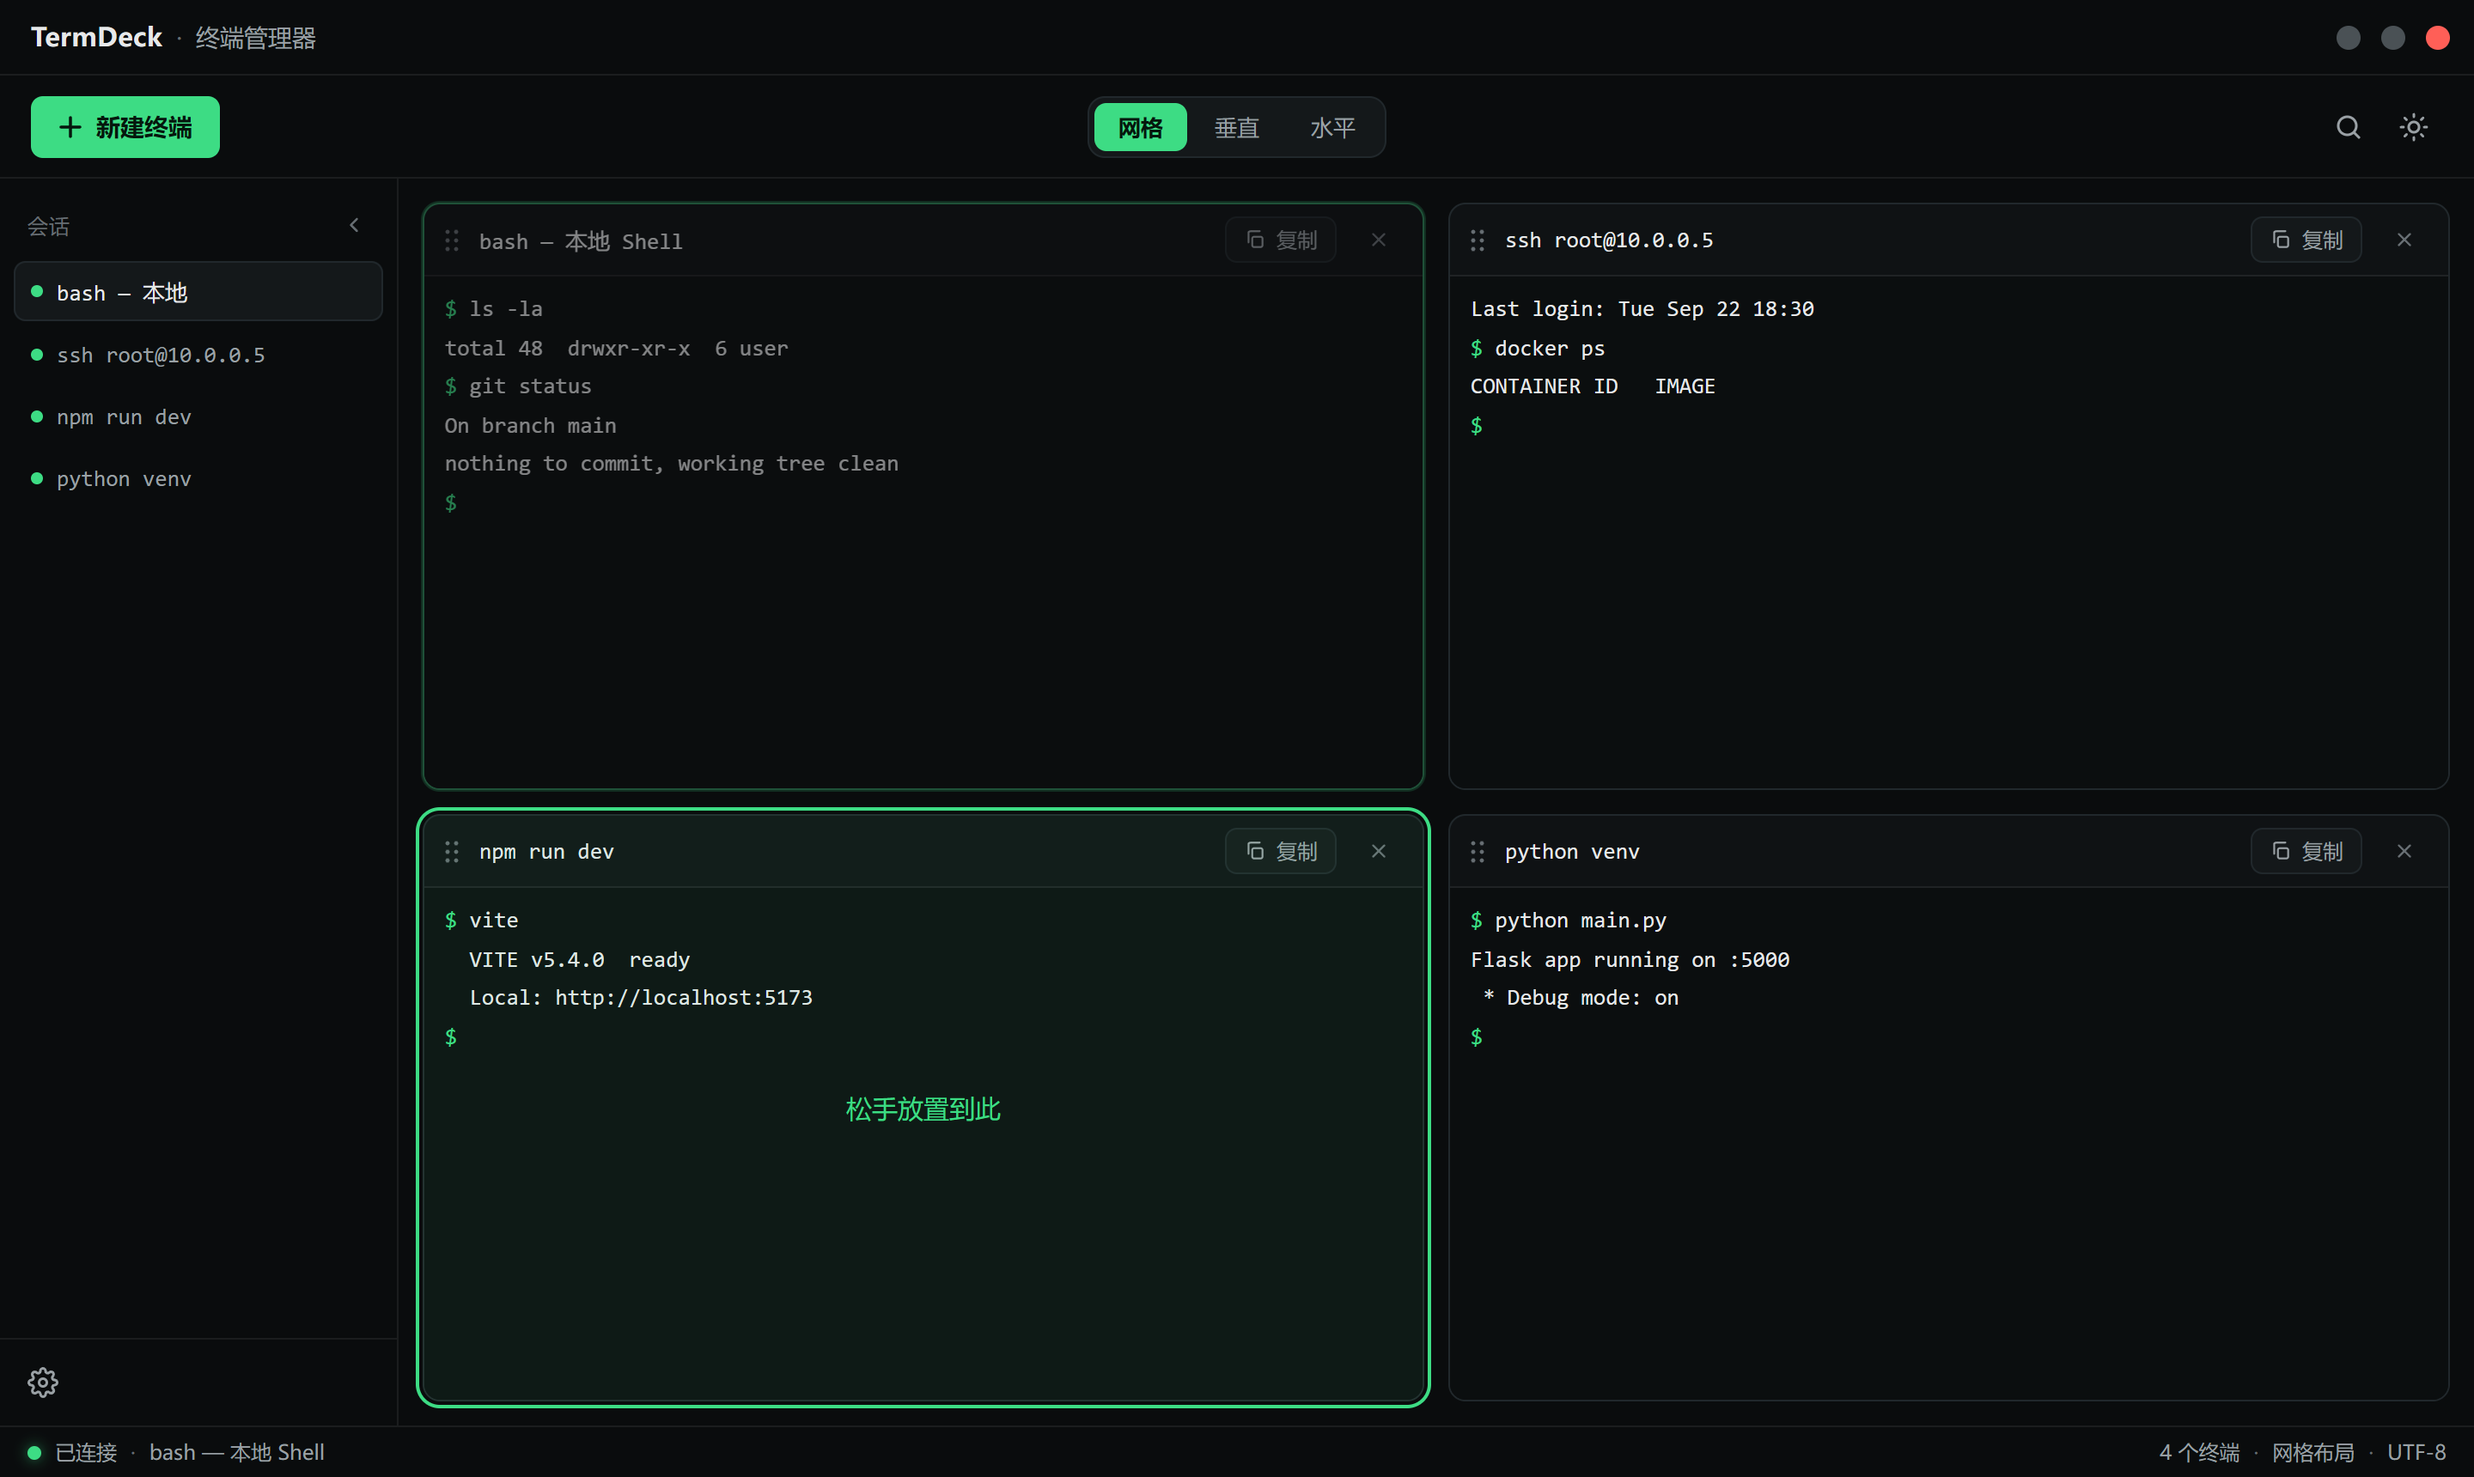
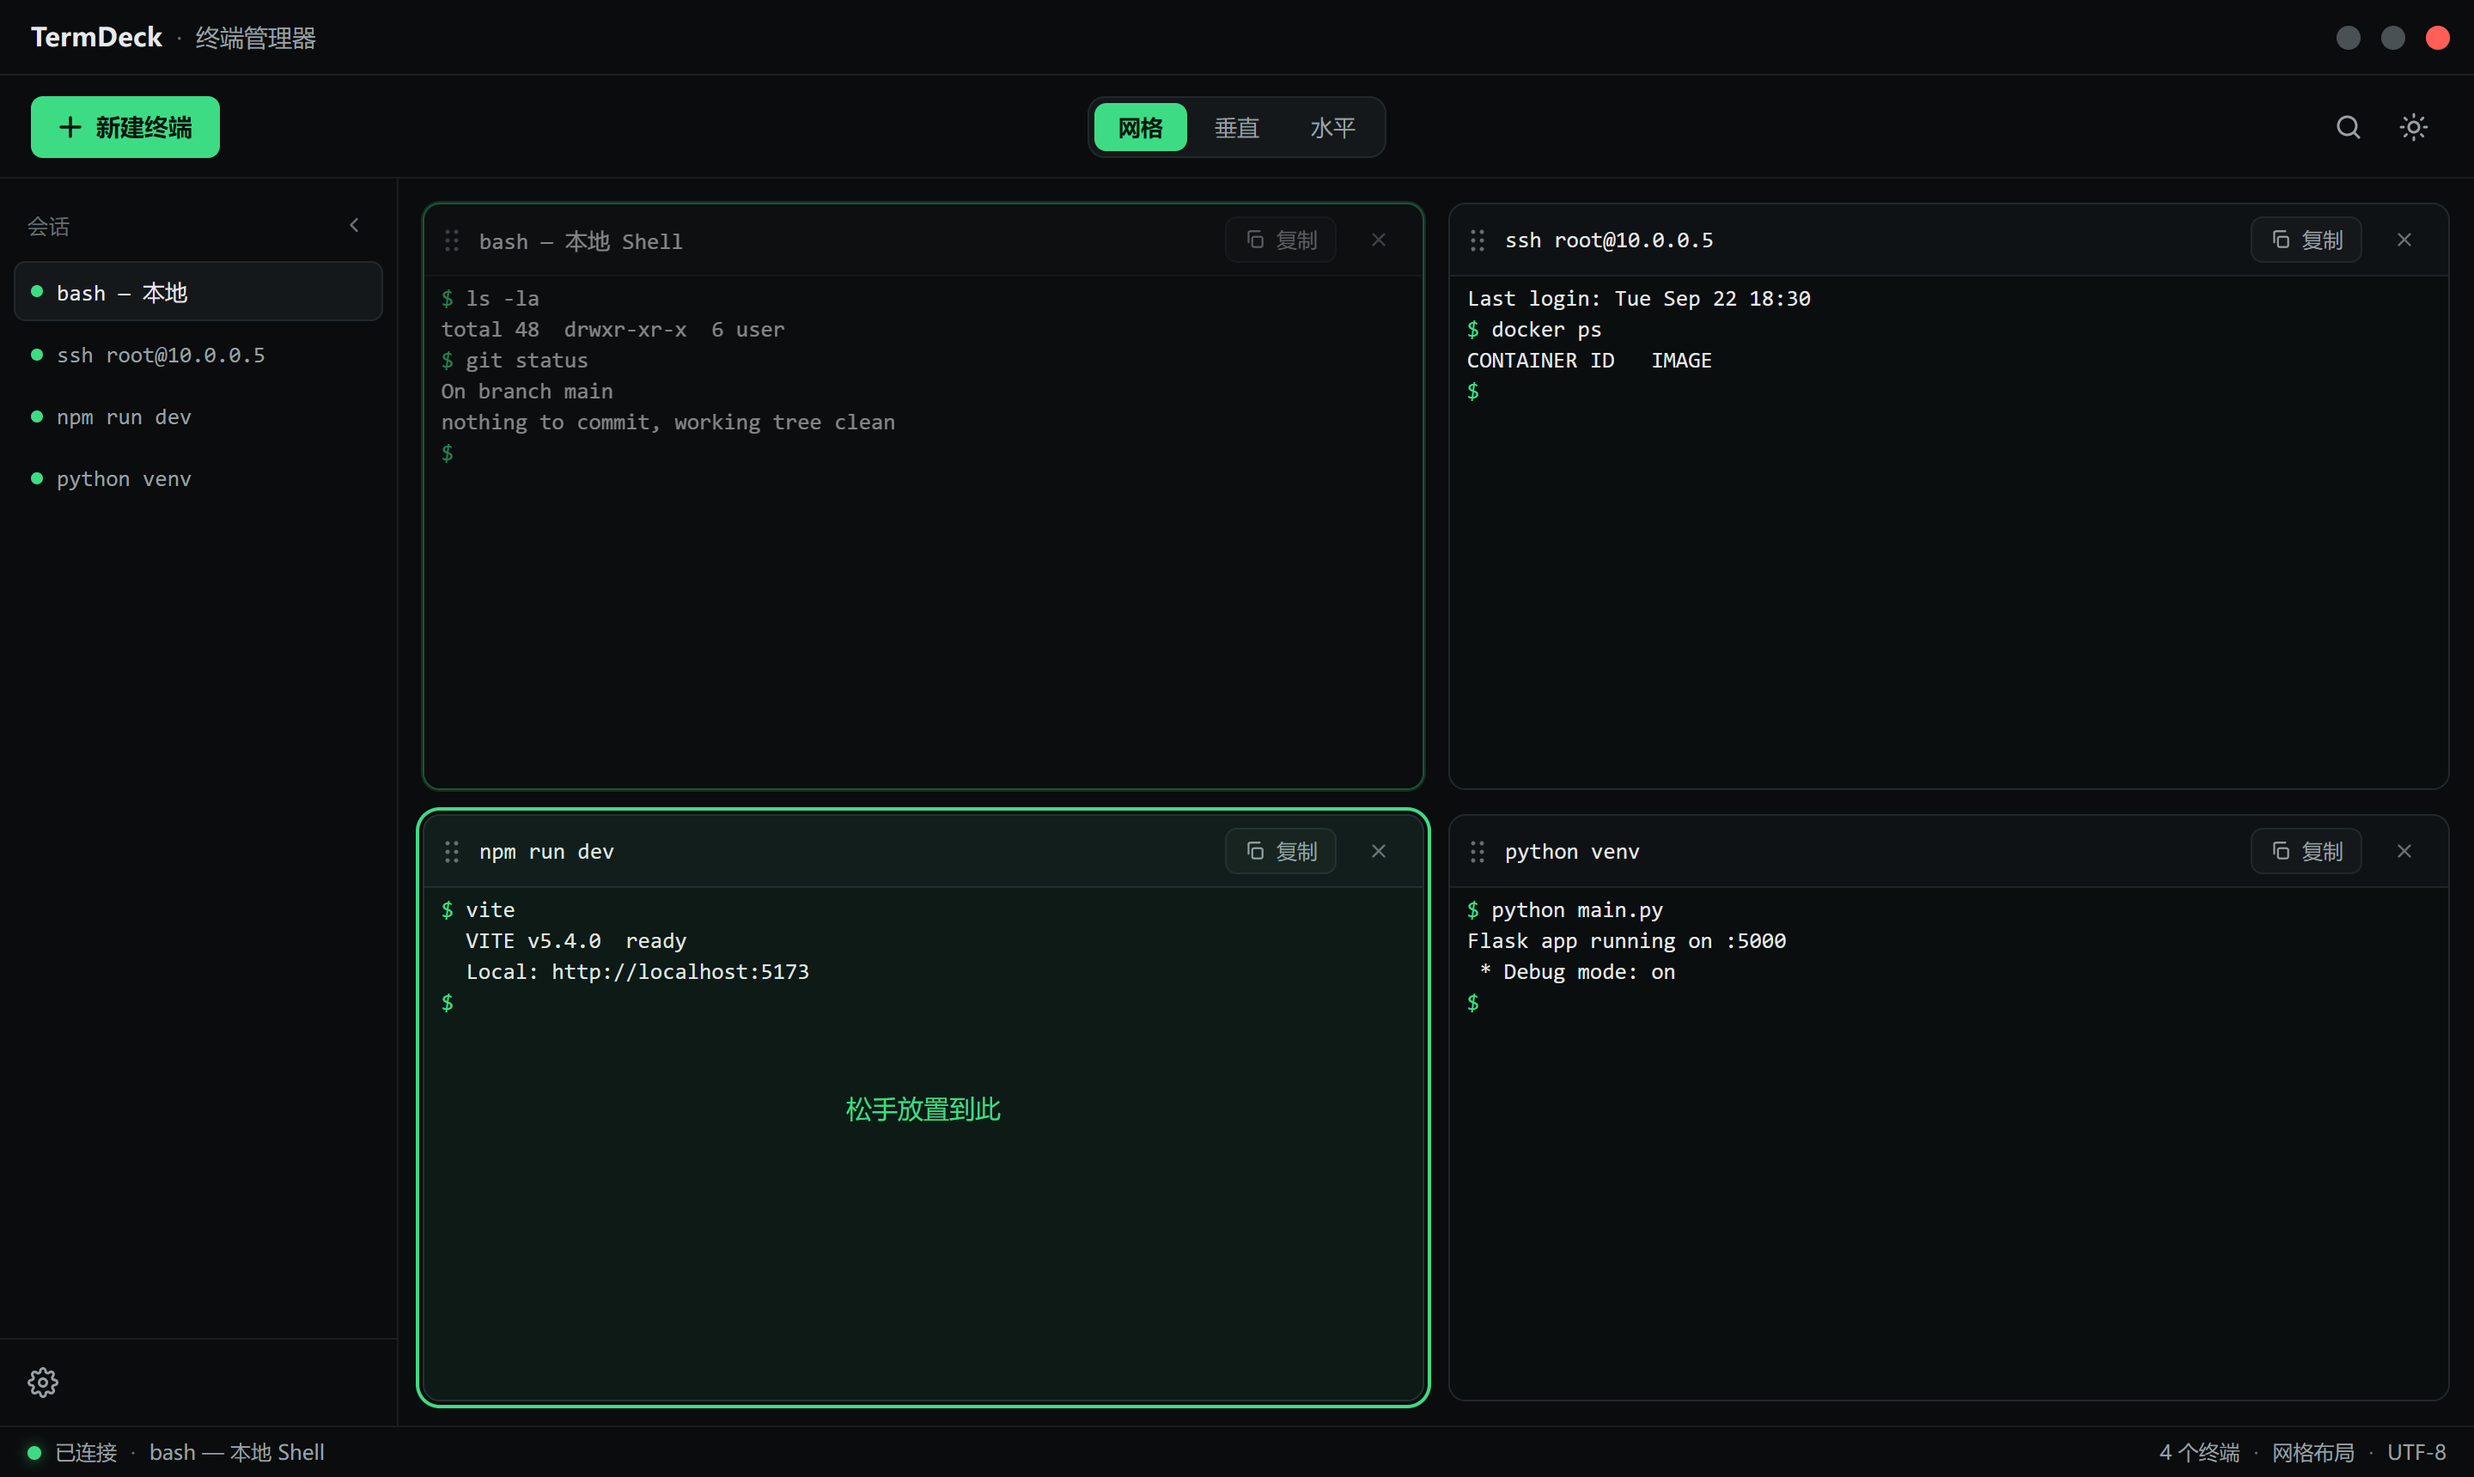
feat: 为终端面板添加自定义滚动条并实现会话重命名功能
新增了终端面板的自定义滚动条，支持拖拽滚动，解决了原生滚动条与面板样式冲突的问题。同时实现了会话侧边栏的双击重命名功能，同步更新侧边栏标签和面板标题。更新了相关截图和文档说明，调整了样式和布局细节。

diff --git a/src/components/TerminalPane.vue b/src/components/TerminalPane.vue
@@ -1,5 +1,5 @@
 <script setup lang="ts">
-import { onBeforeUnmount, onMounted, ref, watch } from "vue";
+import { onBeforeUnmount, onMounted, reactive, ref, watch } from "vue";
 import { Terminal } from "@xterm/xterm";
 import { FitAddon } from "@xterm/addon-fit";
 import { backend } from "@/services";
@@ -10,6 +10,8 @@ const props = defineProps<{ session: TerminalSession }>();
 const emit = defineEmits<{ (e: "focus"): void }>();
 
 const host = ref<HTMLDivElement | null>(null);
+const bar = ref<HTMLDivElement | null>(null);
+const thumb = reactive({ h: 0, top: 0, show: false, dragging: false });
 
 const PALETTE = {
   dark: {
@@ -66,6 +68,8 @@ let detach: (() => void) | null = null;
 let ro: ResizeObserver | null = null;
 let resizeTimer: number | undefined;
 let removeContextMenu: (() => void) | null = null;
+let viewport: HTMLElement | null = null;
+let grabOffset = 0;
 
 function currentTheme(): "dark" | "light" {
   return document.documentElement.dataset.theme === "light" ? "light" : "dark";
@@ -95,10 +99,93 @@ function scheduleResize() {
   resizeTimer = window.setTimeout(() => {
     if (!term || !fit) return;
     fit.fit();
+    syncThumb();
     void backend.terminal
       .resize(props.session.id, term.cols, term.rows)
       .catch(() => {});
   }, 60);
+}
+
+/**
+ * The viewport's own scrollbar is off (see the `.xterm-viewport` rule in
+ * base.css): its arrow buttons clash with the pane chrome, and xterm's blanket
+ * `preventDefault()` on mousedown cancels a press-drag on it. This overlay thumb
+ * is plain DOM, so dragging it is just pointer math onto `scrollTop`. It is
+ * measured against the viewport itself, which the track is aligned to.
+ */
+function viewportEl(): HTMLElement | null {
+  // The viewport element only exists once the renderer has built it, so resolve
+  // it on demand rather than at mount.
+  if (!viewport) {
+    viewport = host.value?.querySelector<HTMLElement>(".xterm-viewport") ?? null;
+    // Wheel scrolling is suppressed on xterm's own `onScroll`, so the native
+    // scroll event is the only signal that covers every source of movement.
+    viewport?.addEventListener("scroll", syncThumb);
+  }
+  return viewport;
+}
+
+function track(): { top: number; height: number } | null {
+  const v = viewportEl();
+  if (!v) return null;
+  return { top: v.getBoundingClientRect().top, height: v.clientHeight };
+}
+
+function syncThumb() {
+  const t = track();
+  if (!t || !viewport) return;
+  const max = viewport.scrollHeight - viewport.clientHeight;
+  if (max <= 0) {
+    thumb.show = false;
+    return;
+  }
+  thumb.h = Math.max(30, (viewport.clientHeight / viewport.scrollHeight) * t.height);
+  thumb.top = (viewport.scrollTop / max) * (t.height - thumb.h);
+  thumb.show = true;
+}
+
+function moveTo(clientY: number) {
+  const t = track();
+  if (!t || !viewport) return;
+  const travel = t.height - thumb.h;
+  if (travel <= 0) return;
+  thumb.top = Math.min(Math.max(clientY - grabOffset - t.top, 0), travel);
+  viewport.scrollTop =
+    (thumb.top / travel) * (viewport.scrollHeight - viewport.clientHeight);
+}
+
+function onTrackDown(e: PointerEvent) {
+  const t = track();
+  if (!t || !bar.value) return;
+  const onThumb =
+    e.clientY >= t.top + thumb.top && e.clientY <= t.top + thumb.top + thumb.h;
+  grabOffset = onThumb ? e.clientY - (t.top + thumb.top) : thumb.h / 2;
+  thumb.dragging = true;
+  bar.value.setPointerCapture(e.pointerId);
+  moveTo(e.clientY);
+  e.preventDefault();
+}
+
+function onTrackMove(e: PointerEvent) {
+  if (thumb.dragging) moveTo(e.clientY);
+}
+
+// The track sits over the terminal's right edge, so a wheel gesture there would
+// otherwise scroll nothing at all.
+function onTrackWheel(e: WheelEvent) {
+  const v = viewportEl();
+  if (!v) return;
+  v.scrollTop += e.deltaY;
+  syncThumb();
+  e.preventDefault();
+}
+
+function onTrackUp(e: PointerEvent) {
+  thumb.dragging = false;
+  if (bar.value?.hasPointerCapture(e.pointerId)) {
+    bar.value.releasePointerCapture(e.pointerId);
+  }
+  syncThumb();
 }
 
 async function copySelection() {
@@ -117,7 +204,7 @@ onMounted(async () => {
     fontFamily:
       '"JetBrains Mono", "SFMono-Regular", Menlo, Consolas, monospace',
     fontSize: 13,
-    lineHeight: 1.5,
+    lineHeight: 1.2,
     scrollback: 5000,
     cursorBlink: true,
     theme: PALETTE[currentTheme()],
@@ -126,6 +213,17 @@ onMounted(async () => {
   term.loadAddon(fit);
   term.open(host.value);
   fit.fit();
+
+  // Row height is the *measured* font box × lineHeight, and that measurement can
+  // land after the first fit — leaving a row count that overflows the host and
+  // eats its bottom padding. Refit once the renderer has drawn.
+  const firstRender = term.onRender(() => {
+    firstRender.dispose();
+    scheduleResize();
+  });
+  // Pin-to-bottom on output changes `scrollHeight` without a scroll event, and it
+  // lands after the write is parsed — sync on the next frame to read the result.
+  term.onWriteParsed(() => requestAnimationFrame(syncThumb));
 
   // Shells report their directory as an OSC 7 sequence on every prompt, so this
   // keeps `session.cwd` live even after the user `cd`s elsewhere — which is what
@@ -196,6 +294,8 @@ onBeforeUnmount(() => {
   detach?.();
   term?.dispose();
   term = null;
+  viewport?.removeEventListener("scroll", syncThumb);
+  viewport = null;
 });
 
 watch(
@@ -237,7 +337,27 @@ function closePane() {
         </svg>
       </button>
     </div>
-    <div ref="host" class="term-host"></div>
+    <div ref="host" class="term-host">
+      <div
+        v-show="thumb.show"
+        ref="bar"
+        class="term-bar"
+        :class="{ dragging: thumb.dragging }"
+        @pointerdown="onTrackDown"
+        @pointermove="onTrackMove"
+        @pointerup="onTrackUp"
+        @pointercancel="onTrackUp"
+        @wheel="onTrackWheel"
+      >
+        <div
+          class="term-thumb"
+          :style="{
+            height: `${thumb.h}px`,
+            transform: `translateY(${thumb.top}px)`,
+          }"
+        />
+      </div>
+    </div>
   </div>
 </template>
 
@@ -314,9 +434,36 @@ function closePane() {
   background: color-mix(in srgb, var(--danger) 14%, transparent);
 }
 .term-host {
+  --pad-top: 4px;
+  --pad-bottom: 6px;
+  position: relative;
   flex: 1;
   min-height: 0;
-  padding: 8px 6px 8px 12px;
+  padding: var(--pad-top) 8px var(--pad-bottom) 10px;
+  overflow: hidden;
   background: var(--term-bg);
+}
+.term-bar {
+  position: absolute;
+  top: var(--pad-top);
+  bottom: var(--pad-bottom);
+  right: 2px;
+  width: 9px;
+  z-index: 3;
+  touch-action: none;
+  cursor: default;
+}
+.term-thumb {
+  width: 100%;
+  border-radius: 999px;
+  background: var(--text-dim);
+  opacity: 0.35;
+  transition: opacity 0.15s;
+}
+.pane:hover .term-thumb {
+  opacity: 0.65;
+}
+.term-bar.dragging .term-thumb {
+  opacity: 1;
 }
 </style>

diff --git a/src/components/SessionList.vue b/src/components/SessionList.vue
@@ -1,5 +1,36 @@
 <script setup lang="ts">
+import { nextTick, ref } from "vue";
 import { store } from "@/stores/termdeck";
+
+const editingId = ref<string | null>(null);
+const draft = ref("");
+
+// Only one input exists at a time, but it lives inside a v-for, so grab it with a
+// function ref rather than an array.
+let renameInput: HTMLInputElement | null = null;
+function captureInput(el: unknown) {
+  renameInput = el as HTMLInputElement | null;
+}
+
+async function startRename(id: string) {
+  const s = store.state.sessions.find((x) => x.id === id);
+  if (!s) return;
+  editingId.value = id;
+  draft.value = s.label;
+  await nextTick();
+  renameInput?.focus();
+  renameInput?.select();
+}
+
+function commit() {
+  if (editingId.value) store.rename(editingId.value, draft.value);
+  editingId.value = null;
+}
+
+// Clicking away discards the edit, so blur must not commit.
+function cancel() {
+  editingId.value = null;
+}
 </script>
 
 <template>
@@ -27,7 +58,21 @@ import { store } from "@/stores/termdeck";
         @click="store.setActive(s.id)"
       >
         <span class="dot" :class="s.status"></span>
-        <span class="label" :title="s.label">{{ s.label }}</span>
+        <input
+          v-if="editingId === s.id"
+          :ref="captureInput"
+          v-model="draft"
+          class="rename"
+          @keydown.enter="commit"
+          @blur="cancel"
+        />
+        <span
+          v-else
+          class="label"
+          :title="s.label"
+          @dblclick="startRename(s.id)"
+          >{{ s.label }}</span
+        >
         <button
           class="close"
           title="关闭终端"
@@ -146,6 +191,19 @@ import { store } from "@/stores/termdeck";
   overflow: hidden;
   text-overflow: ellipsis;
   white-space: nowrap;
+  user-select: none;
+}
+.rename {
+  flex: 1;
+  min-width: 0;
+  padding: 2px 6px;
+  font: inherit;
+  cursor: text;
+  color: var(--text);
+  background: var(--bg-elev-2);
+  border: 1px solid var(--accent);
+  border-radius: 5px;
+  outline: none;
 }
 .close {
   border: none;

diff --git a/src/stores/termdeck.ts b/src/stores/termdeck.ts
@@ -117,6 +117,18 @@ export const store = {
   setActive(id: string): void {
     state.activeId = id;
   },
+  /**
+   * Rename a session: the sidebar label and the pane header (and the status bar,
+   * which reads the active session's title) stay in sync. An empty name is a no-op.
+   */
+  rename(id: string, name: string): void {
+    const s = state.sessions.find((x) => x.id === id);
+    const label = name.trim();
+    if (s && label) {
+      s.label = label;
+      s.title = label;
+    }
+  },
   setLayout(layout: LayoutMode): void {
     state.layout = layout;
   },

diff --git a/src/styles/base.css b/src/styles/base.css
@@ -93,6 +93,15 @@ button {
   background-clip: padding-box;
 }
 
+/* The terminal draws its own overlay thumb (see TerminalPane); the OS scrollbar
+ * is off here so its arrow buttons don't show through the pane chrome. */
+.xterm .xterm-viewport {
+  scrollbar-width: none;
+}
+.xterm .xterm-viewport::-webkit-scrollbar {
+  display: none;
+}
+
 /* Shared control surfaces ------------------------------------------------ */
 
 .icon-btn {

diff --git a/README.md b/README.md
@@ -8,7 +8,8 @@
   `xterm.js` 渲染。Shell 根据"默认 Shell"设置启动。
 - **布局模式** — 网格 (grid) / 垂直 (vertical) / 水平 (horizontal),
   仅有一个终端时自动切换为单面板视图。
-- **会话侧边栏** — 创建、选择和关闭终端;带实时状态指示点。
+- **会话侧边栏** — 创建、选择和关闭终端;双击名称可重命名(面板标题
+  同步更新);带实时状态指示点。
 - **拖拽重排** — 抓住面板标题栏拖到另一个槽位(绿色"松手放置到此"
   为放置目标)。
 - **设置** — 为**当前平台**选择默认 Shell(Windows:
